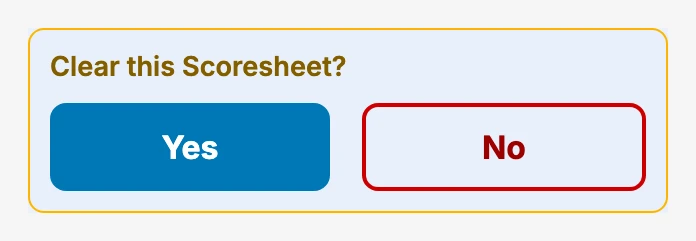
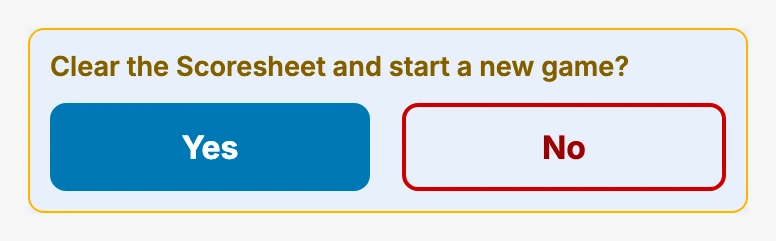
v22.80 Clear prompt now asks "Clear the Scoresheet and start a new game?", FAQ v1.78 screenshots

diff --git a/faq/index.html b/faq/index.html
@@ -1354,7 +1354,7 @@
               <li><strong>Save the Scoresheet.</strong> Tap <strong>Download PDF</strong> to save the finished scoresheet to your device.</li>
               <li><strong>Submit your Game Confirmation.</strong> Tap <strong>Open the Game Confirmation Form</strong> to open the form in a new tab, where you submit the PDF you saved.</li>
             </ol>
-            <p>Each step ticks off as you go, but nothing is forced, so you can skip or redo any of them. After you tap <strong>Open the Game Confirmation Form</strong> (step 4), the app asks "Clear this Scoresheet?" You can also tap <strong>Clear Session</strong> at any time.</p>
+            <p>Each step ticks off as you go, but nothing is forced, so you can skip or redo any of them. After you tap <strong>Open the Game Confirmation Form</strong> (step 4), the app asks "Clear the Scoresheet and start a new game?" Yes clears the game; No keeps it. You can also tap <strong>Clear Session</strong> at any time.</p>
           </div>
         </details>
 
@@ -1439,7 +1439,7 @@
 
         <details class="faq-item" id="q-after-exporting-the-app-asks-to-clear-session">
           <summary>
-            <span class="faq-q-text">After submitting, the app asks "Clear this Scoresheet?" — what does that
+            <span class="faq-q-text">After submitting, the app asks "Clear the Scoresheet and start a new game?" — what does that
             mean?</span><span class="faq-q-arrow">▼</span>
           </summary>
           <div class="faq-a">
@@ -1451,11 +1451,11 @@
         <div class="faq-shot">
           <img
             loading="lazy"
-            width="696" height="241" decoding="async"
+            width="776" height="241" decoding="async"
             src="screenshots/clear-scoresheet-prompt.webp"
             data-shot-base="clear-scoresheet-prompt"
-            alt="Prompt reading Clear this Scoresheet? with a filled Yes button and an outlined red No button"
-            onerror="faqShotFallback(this,'Clear this Scoresheet?')"
+            alt="Prompt reading Clear the Scoresheet and start a new game? with a filled Yes button and an outlined red No button"
+            onerror="faqShotFallback(this,'Clear the Scoresheet and start a new game?')"
           />
           </div>
           </div>

diff --git a/js/app.js b/js/app.js
@@ -69,8 +69,8 @@ const FIELD_MAX = {
   timezone: 64,
   locale: 35,
 };
-const APP_VERSION = "v22.79"; // #Version Number — bump this manually when you release a new build
-const APP_VERSION_DATE = "Nov 22, 2026 7:02 AM"; // #Version Date — bump alongside APP_VERSION so folks can spot a stale build
+const APP_VERSION = "v22.80"; // #Version Number — bump this manually when you release a new build
+const APP_VERSION_DATE = "Nov 22, 2026 7:11 AM"; // #Version Date — bump alongside APP_VERSION so folks can spot a stale build
 // version.json (repo root) mirrors these two — see checkForUpdate() below for why, and bump it
 // in the same commit as these two or the update-available check starts lying: it'd either miss
 // a real new release (version.json still saying the old version) or nag a host running the
@@ -1751,7 +1751,7 @@ function renderLeftBody() {
 
   h += `<div class="section ${collapsedSections.has("sec-export") ? "collapsed" : ""}" id="sec-export"><div class="section-header" role="button" tabindex="0" onclick="toggleSection('sec-export')"><span class="chevron">▼</span><h2>${ICON_PLANE} Game Confirmation</h2></div><div class="section-body">
     <div class="finish-card" id="finishChecklist">${finishChecklistHtml()}</div>
-    <div class="export-prompt" id="exportPrompt"><p>Clear this Scoresheet?</p><div class="export-prompt-btns"><button class="btn btn-accent" onclick="clearAfterExport();">Yes</button><button class="btn export-prompt-no" onclick="document.getElementById('exportPrompt').classList.remove('show');">No</button></div></div>
+    <div class="export-prompt" id="exportPrompt"><p>Clear the Scoresheet and start a new game?</p><div class="export-prompt-btns"><button class="btn btn-accent" onclick="clearAfterExport();">Yes</button><button class="btn export-prompt-no" onclick="document.getElementById('exportPrompt').classList.remove('show');">No</button></div></div>
     <div style="margin-top:14px;text-align:center;"><button class="btn btn-danger" onclick="confirmClearSession()">${ICON_TRASH} Clear Session</button></div>
   </div></div>`;
   cut();

diff --git a/faq/js/faq.js b/faq/js/faq.js
@@ -4,7 +4,7 @@
 // #versionLabel element. Here the same string feeds two spots — the page footer and the
 // Settings panel's settings-meta row — so bumping a release only means editing these two
 // constants instead of hunting down every place the version text is written out by hand.
-const FAQ_VERSION = "v1.77";
+const FAQ_VERSION = "v1.78";
 const FAQ_VERSION_DATE = "22 Nov 2026";
 
 // Same Lucide sun/moon geometry as the main app's THEME_ICON_SUN/MOON (js/app.js), tagged

diff --git a/faq/screenshots/README.md b/faq/screenshots/README.md
@@ -52,7 +52,7 @@ comparison it exists to make.
 | `craft-prize-drumroll.webp` | The Craft Prize drumroll actively playing, right after clicking Start Drumroll — the spinning name and countdown bar. | Craft Prize Drawing |
 | `craft-prize-winner.webp` | The finished draw — the "Excluded from the draw" top-teams box, the winning team announced with the **Clear** button next to the result, and the Winner Announcement Script below (v22.77). Dark + light. | Craft Prize Drawing |
 | `export-bar.webp` | The Game Confirmation section as one numbered list — Save a Scoresheet backup (Optional), Submit the winners' names and photos (📷 form button with the Copy buttons for the top teams and craft prize winner under it), Save the Scoresheet (Download PDF), Submit your Game Confirmation (🎭 form button), then Clear Session. Each step button is a wide rectangle with a gold outline and the picto on the left (v22.74). Dark + light. | Exporting |
-| `clear-scoresheet-prompt.webp` | The "Clear this Scoresheet?" prompt with the filled Yes and red-outlined No buttons (v22.79). Dark + light. | Exporting |
+| `clear-scoresheet-prompt.webp` | The "Clear the Scoresheet and start a new game?" prompt with the filled Yes and red-outlined No buttons (v22.79). Dark + light. | Exporting |
 | `pdf-export.webp` | The downloaded PDF scoresheet — same header plus full standings. | Exporting |
 | `jd-upload-form.webp` | The Game Confirmation page, opened in its own browser tab. | Exporting |
 | `sound-test-buttons.webp` | The Craft Prize Drawing's Test Sounds bar — the square Roll / Fade out / Crash / Horn buttons (Advanced Settings → Manual Drumroll Control **and** Sound Test Buttons both on). | Tips & Tricks |

diff --git a/CHANGELOG.md b/CHANGELOG.md
@@ -14,6 +14,10 @@ Theme Night is a major change, so its first release (commit subject "v19.78") is
 v20.0 here and in the app, and the follow-ups after it are v20.1 through v20.6 (commit subjects
 v19.79 through v19.84; git history isn't rewritten).
 
+## v22.80 - 2026-11-22
+
+- **Clear prompt wording.** The Game Confirmation prompt after step 4 now reads "Clear the Scoresheet and start a new game?" with the same Yes / No buttons.
+
 ## v22.79 - 2026-11-22
 
 - **Clear prompt waits for step 4.** The Game Confirmation clear prompt no longer pops up after saving the PDF or backup; it appears only after you tap the step 4 Game Confirmation button. It now reads "Clear this Scoresheet?" with larger, well-separated Yes (filled) and No (red outline) buttons.

diff --git a/faq/CHANGELOG.md b/faq/CHANGELOG.md
@@ -2,6 +2,12 @@
 
 All notable changes to the Scorekeeper FAQ site are documented here.
 
+## [1.78] - 22 Nov 2026
+
+### Changed
+
+- **Wrapping up:** the `clear-scoresheet-prompt` screenshots (dark + light) are regenerated for app v22.80, and the answers now quote "Clear the Scoresheet and start a new game?".
+
 ## [1.77] - 22 Nov 2026
 
 ### Changed
